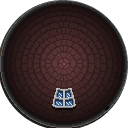
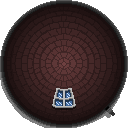
Better Looking Houses For Real

diff --git a/LD39.cpp b/LD39.cpp
@@ -139,7 +139,7 @@ int main(int argc, char* args[])
 
     player = new Player();
 
-    new Obstacle(100,100,64,"house1");//+std::to_string(random(1,4)));
+    new Obstacle(100,100,64,"house"+std::to_string(random(1,4)));
     for (int i=0;i<=10;i++) new Enemy(random(50,map_size[0]),random(50,map_size[1]),random_enemy_type());
     for (int i=0;i<=15;i++) new NPC(random(50,map_size[0]),random(50,map_size[1]),5,"npc_"+std::to_string(random(1,3)));
 
